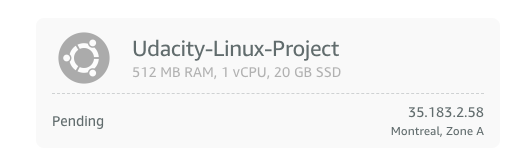
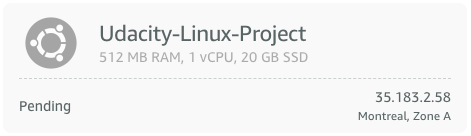
updating

diff --git a/README.md b/README.md
@@ -28,7 +28,7 @@
   <img src="https://github.com/TheAisBack/linux-server-configuration/blob/master/img/4.png" width="500" height="400" />
 </p>
 <p align="center">
-  <img src="https://github.com/TheAisBack/linux-server-configuration/blob/master/img/6.png" width="550" height="200" />
+  <img src="https://github.com/TheAisBack/linux-server-configuration/blob/master/img/6.png" width="500" height="200" />
 </p>
 <p align="center">
   <img src="https://github.com/TheAisBack/linux-server-configuration/blob/master/img/7.png" width="500" height="200" />
